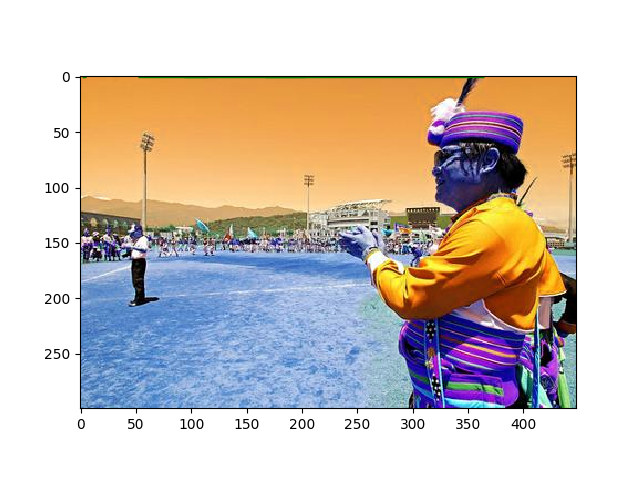
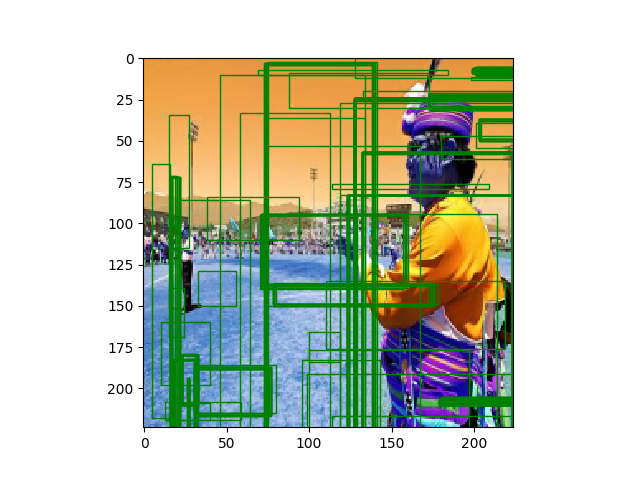
inference

diff --git a/prediction.py b/prediction.py
@@ -47,5 +47,5 @@ with tf.Session(graph=new_graph) as sess:
     boxes = rpn[1].reshape(rpn[1].shape[0], rpn[1].shape[1]*rpn[1].shape[2], rpn[1].shape[3])
     boxes[0][:,[0, 2]] = boxes[0][:,[0, 2]] * 224
     boxes[0][:, [1, 3]] = boxes[0][:, [1, 3]] * 224
-    nms_box = utils.non_max_suppression_fast(np.abs(boxes[0]), 0.4)
+    nms_box = utils.non_max_suppression_fast(np.abs(boxes[0]), 0.7)
     utils.bbox_plot(img[0], nms_box)
